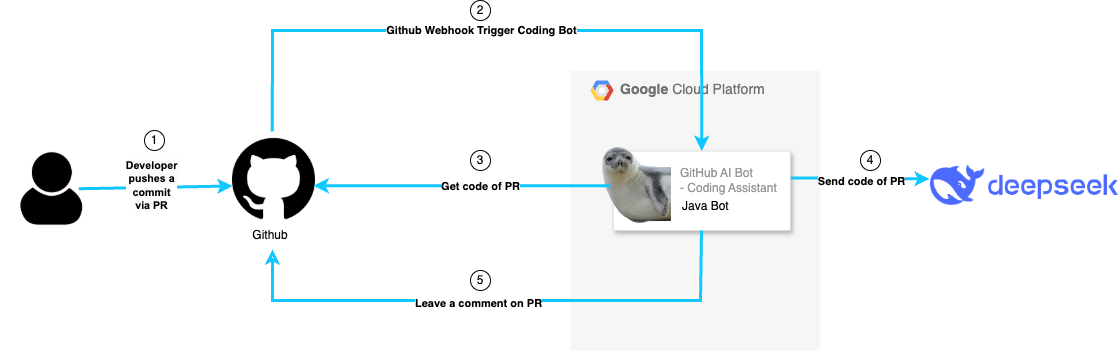
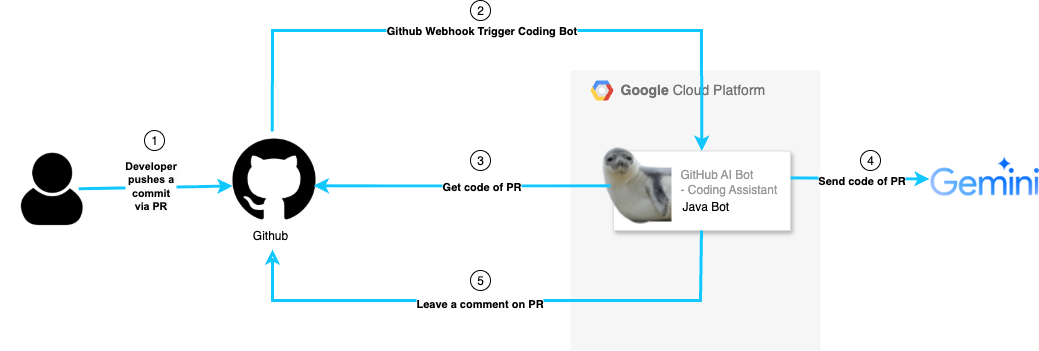
update README.md

diff --git a/README.md b/README.md
@@ -11,17 +11,14 @@ The GitHub AI Bot – Coding Assistant is an AI-powered code review bot for all 
 
 3⃣ Bot fetches the PR code
 
-4⃣ Bot sends the code to an AI model - uses DeepSeek API (or another LLM) for analysis.  
+4⃣ Bot sends the code to an AI model – uses Gemini API (or another LLM) for analysis.
 
-5⃣ Bot comments on the PR. Provides AI-generated code reviews with suggestions and fixes. 
+5⃣ Bot comments on the PR with AI-generated code review suggestions and fixes.
 
-### Features
+### Supported GitHub Events
 
-✅ Automated Code Review – AI detects bad practices and suggests improvements.  
-
-✅ Code Analysis – Specialized for all programming language projects.   
-
-✅ Customizable AI Model – Uses DeepSeek or any other AI model for analysis.
+- `opened`: Triggered when a new PR is created.
+- `synchronize`: Triggered when new commits are pushed to an existing PR.
 
 ## How to Run Locally
 
@@ -43,7 +40,7 @@ Make sure that you have installed locally:
     ```
     mvn spring-boot:run
     ```
-3. The server should now be running on http://localhost:8080 
+3. The server should now be running on http://localhost:8080
 
 #### Linter
 
@@ -51,23 +48,23 @@ In order to run linter locally on VSC, make sure that you installed "Checkstyle 
 
 ## Deployment to Google Cloud Platform (GCP)
 
-This application is deployed on **Google Cloud Platform (GCP)** using **Cloud Run**.  
+This application is deployed on **Google Cloud Platform (GCP)** using **Cloud Run**.
 
 **Live URL:** [GitHub AI Bot](https://github-ai-bot-658818439028.europe-west1.run.app)
 
 #### Requirements
 
-Make sure that you have installed locally:  
+Make sure that you have installed locally:
 - Google Cloud SDK (`gcloud` CLI) configured with your project.
 
-### Basic Deployment Steps  
+### Basic Deployment Steps
 
-1.  **Set up GCP**  
-    * Ensure you have a Google Cloud Project.  
+1.  **Set up GCP**
+    * Ensure you have a Google Cloud Project.
 
-    * Enable the Cloud Run API, Container Registry API, and Cloud Build API.  
+    * Enable the Cloud Run API, Container Registry API, and Cloud Build API.
 
-    * Authenticate with `gcloud auth login` and `gcloud auth configure-docker`.  
+    * Authenticate with `gcloud auth login` and `gcloud auth configure-docker`.
 
     * Set the `PROJECT_ID` environment variable: `export PROJECT_ID="your-gcp-project-id"`. Replace `"your-gcp-project-id"` with your actual project ID.
 
@@ -92,7 +89,7 @@ This project is continuously deployed via **GitHub Actions** and **Google Cloud 
 ### How It Works
 
 - The workflow file is located at `.github/workflows/deploy.yml`.
-- It runs **automatically on every push to the `main` branch**.
+- It runs **automatically on every push to the `deploy` branch**.
 - The workflow steps:
   1. Set up the Java environment.
   2. Build the project using Maven.
